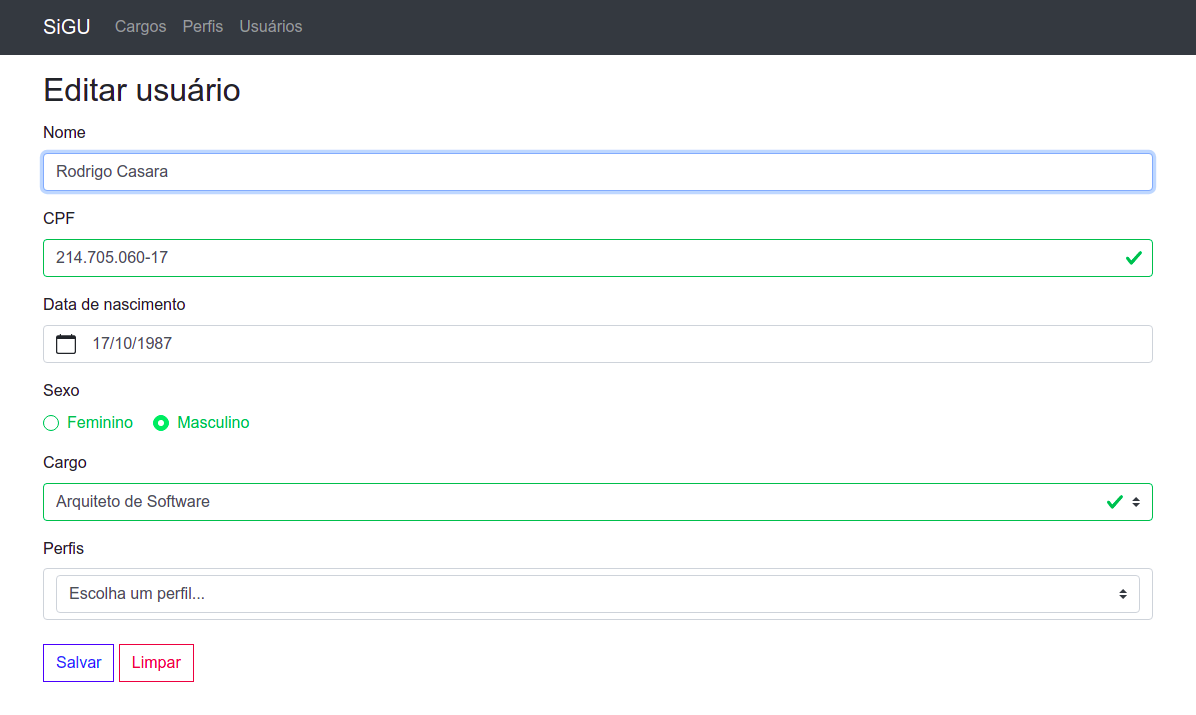
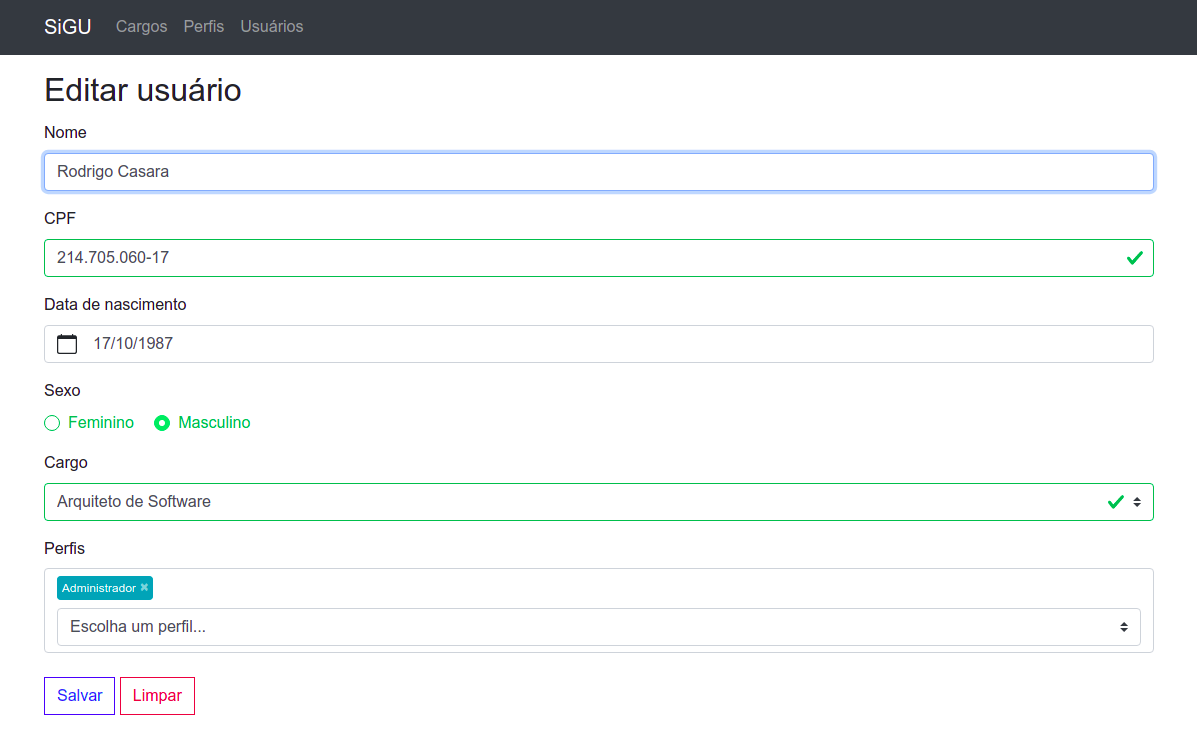
fix: the user edit form does not show the profiles already registered

Changed region(s): [[0.0, 0.0308, 1.0, 0.9538], [0.8972, 0.6462, 0.959, 0.7077]]

diff --git a/src/main/java/br/casara/sigu/web/pages/UserController.java b/src/main/java/br/casara/sigu/web/pages/UserController.java
@@ -1,9 +1,12 @@
 package br.casara.sigu.web.pages;
 
+import br.casara.sigu.domain.Profile;
+import br.casara.sigu.domain.User;
 import br.casara.sigu.infrastructure.UserRepository;
-import br.casara.sigu.web.mappers.UserMapper;
+import com.fasterxml.jackson.core.JsonProcessingException;
 import com.fasterxml.jackson.databind.ObjectMapper;
 import lombok.RequiredArgsConstructor;
+import org.springframework.lang.NonNull;
 import org.springframework.stereotype.Controller;
 import org.springframework.ui.Model;
 import org.springframework.web.bind.annotation.GetMapping;
@@ -13,6 +16,7 @@ import org.springframework.web.bind.annotation.RequestMapping;
 import org.springframework.web.servlet.mvc.support.RedirectAttributes;
 
 import java.util.UUID;
+import java.util.stream.Collectors;
 
 @Controller
 @RequestMapping("/users")
@@ -20,8 +24,6 @@ import java.util.UUID;
 public class UserController {
 
   private final ObjectMapper objectMapper;
-
-  private final UserMapper userMapper;
 
   private final UserRepository userRepository;
 
@@ -43,12 +45,24 @@ public class UserController {
     final RedirectAttributes redirectAttributes
   ) {
     return this.userRepository.findById(id).map(user -> {
+      model.addAttribute("profileNames", this.getProfileNamesToView(user));
       model.addAttribute("domain", user);
       return "user/edit";
     }).orElseGet(() -> {
       redirectAttributes.addFlashAttribute("error", String.format("O usuário '%s' não está mais disponível.", id));
       return "redirect:/users";
     });
+  }
+
+  private String getProfileNamesToView(@NonNull final User user) {
+    final var profileNames = user.getProfiles().stream()
+      .map(Profile::getName)
+      .collect(Collectors.toList());
+    try {
+      return this.objectMapper.writeValueAsString(profileNames);
+    } catch (JsonProcessingException ex) {
+      throw new RuntimeException(ex);
+    }
   }
 
 }
